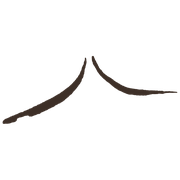
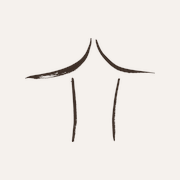
סימטריה בכפתורים ולוגו הפגודה החדש
- זוג הכפתורים בראש דף הבית ברוחב זהה (grid עם עמודות שוות)
- כרטיסי המוצרים בגובה אחיד בכל השורות
- לוגו הפגודה מהקובץ שתומר שלח, ללא הכיתוב: חולץ מה-PDF
  בניתוח רכיבים קשירים, נשמרו ארבע משיכות המכחול (גג + שני עמודים)
- favicon ואייקון מסך הבית נגזרו מאותו סימן

Changed region(s): [[0.0, 0.1944, 1.0, 0.8056]]

diff --git a/css/style.css b/css/style.css
@@ -59,7 +59,7 @@ h1 { letter-spacing: -0.01em; }
 
 /* ---------- כפתורים ---------- */
 .btn {
-  display: inline-block; padding: 13px 30px;
+  display: inline-block; padding: 13px 30px; text-align: center;
   border-radius: 10px; font-weight: 500; font-size: 16px; line-height: 1.4;
   border: 1.5px solid transparent; cursor: pointer; font-family: inherit;
   transition: background 0.2s, color 0.2s, border-color 0.2s, transform 0.15s, box-shadow 0.2s;
@@ -86,7 +86,7 @@ h1 { letter-spacing: -0.01em; }
 }
 .brand { display: flex; align-items: center; gap: 11px; color: var(--ink); }
 .brand:hover { color: var(--ink); }
-.brand img { width: 42px; height: auto; }
+.brand img { width: 46px; height: auto; }
 .brand-name { font-weight: 600; font-size: 20px; letter-spacing: 0.01em; }
 
 .main-nav { display: flex; align-items: center; gap: 4px; }
@@ -129,7 +129,11 @@ h1 { letter-spacing: -0.01em; }
 }
 .hero h1 { font-size: clamp(30px, 4.6vw, 44px); font-weight: 600; margin-bottom: 20px; }
 .hero .lead { font-size: clamp(16px, 2.4vw, 18px); color: var(--ink-soft); margin: 0 0 34px; max-width: 560px; }
-.hero-actions { display: flex; gap: 14px; flex-wrap: wrap; }
+/* זוג כפתורים ברוחב זהה — סימטריה */
+.hero-actions { display: inline-grid; grid-auto-flow: column; grid-auto-columns: 1fr; gap: 14px; }
+@media (max-width: 430px) {
+  .hero-actions { display: grid; grid-auto-flow: row; width: 100%; }
+}
 .hero-media img { border-radius: var(--radius); box-shadow: var(--shadow-lift); aspect-ratio: 4 / 3; object-fit: cover; width: 100%; }
 .hero-media-portrait img { aspect-ratio: 5 / 6; object-position: center 20%; }
 @media (max-width: 900px) {
@@ -188,7 +192,7 @@ h1 { letter-spacing: -0.01em; }
 }
 
 /* ---------- כרטיסי מוצר ---------- */
-.products-grid { display: grid; grid-template-columns: 1fr 1fr; gap: 24px; }
+.products-grid { display: grid; grid-template-columns: 1fr 1fr; grid-auto-rows: 1fr; gap: 24px; }
 @media (max-width: 780px) { .products-grid { grid-template-columns: 1fr; } }
 
 .product {
